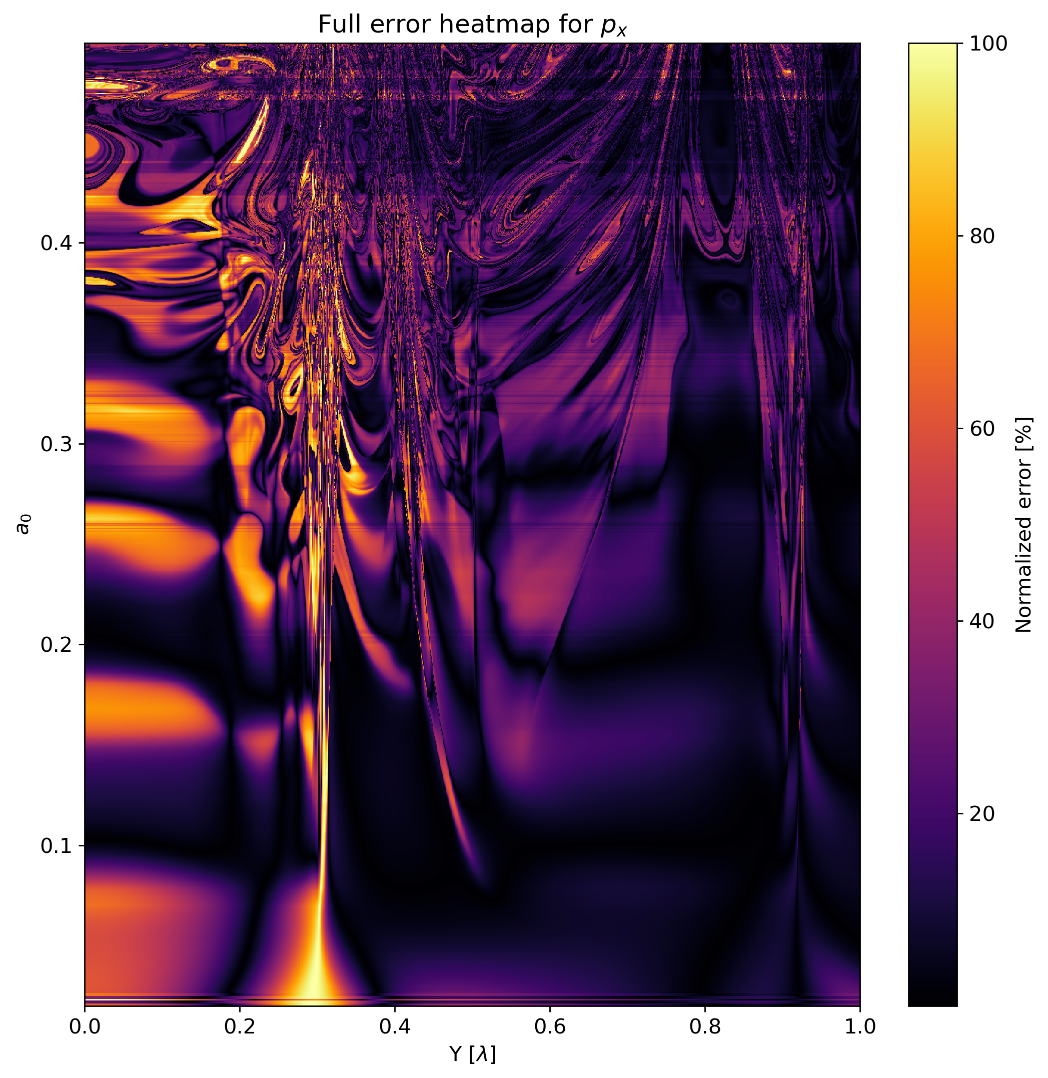
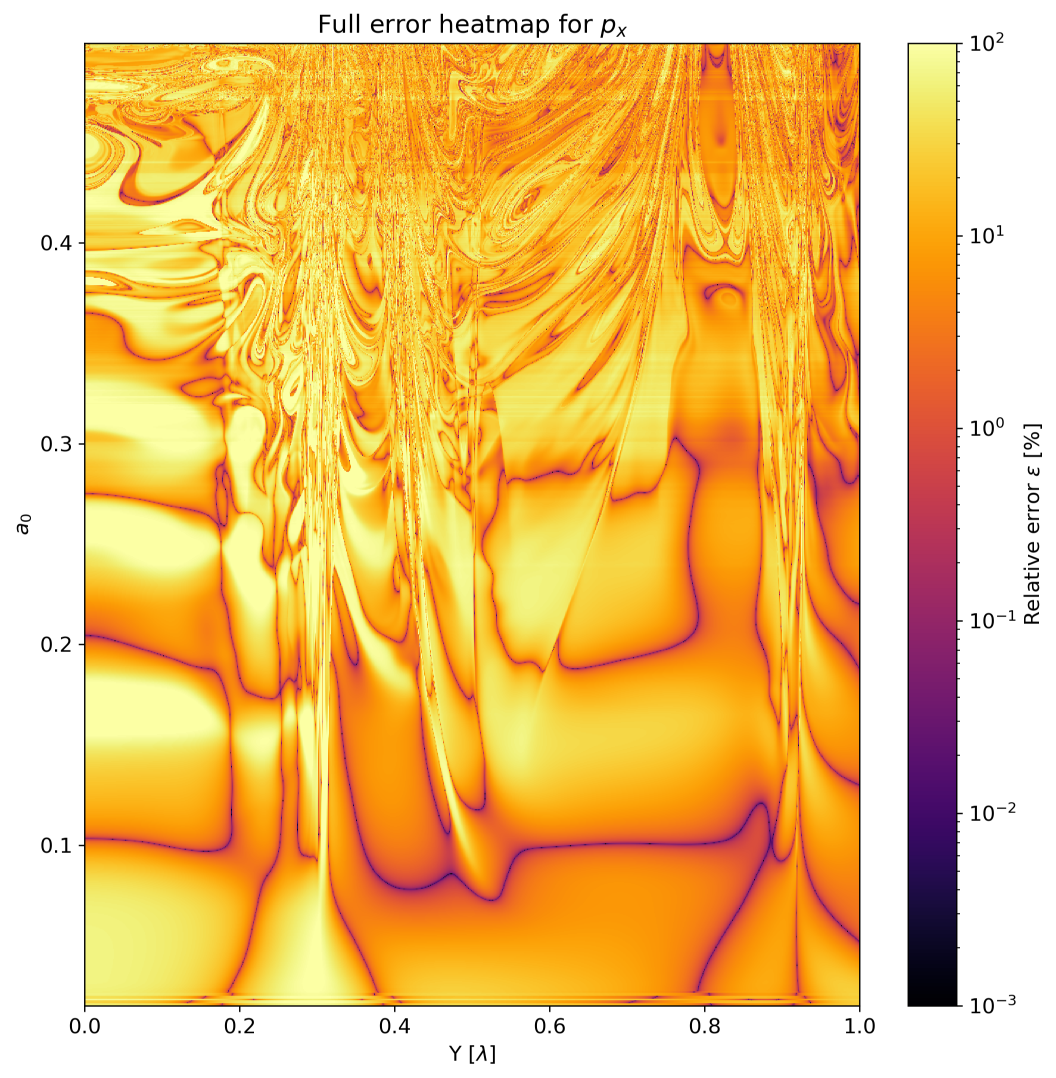
Updated example 3

diff --git a/auto_compute.py b/auto_compute.py
@@ -29,7 +29,7 @@ trajectory_until_exit = False
 thread_num = 8 #Number of threads
 
 min_a0 = 0.02
-max_a0 = 0.60 #Minimum and maximum of a0 for lasers
+max_a0 = 0.50 #Minimum and maximum of a0 for lasers
 
 zetax = 0.0
 zetay = 1.0 #Polarization parameters
@@ -54,7 +54,7 @@ phi = np.radians(90.0)
 theta = np.radians(90.0) #Angles for the lasers
 rotate_angle = np.radians(90.0) #Angles for rotating the initial particles
 
-min_steps_pond = 16
+min_steps_pond = 128
 max_steps_pond = 512
 min_steps_electromag = 4000
 max_steps_electromag = 16000 #Simulation steps
